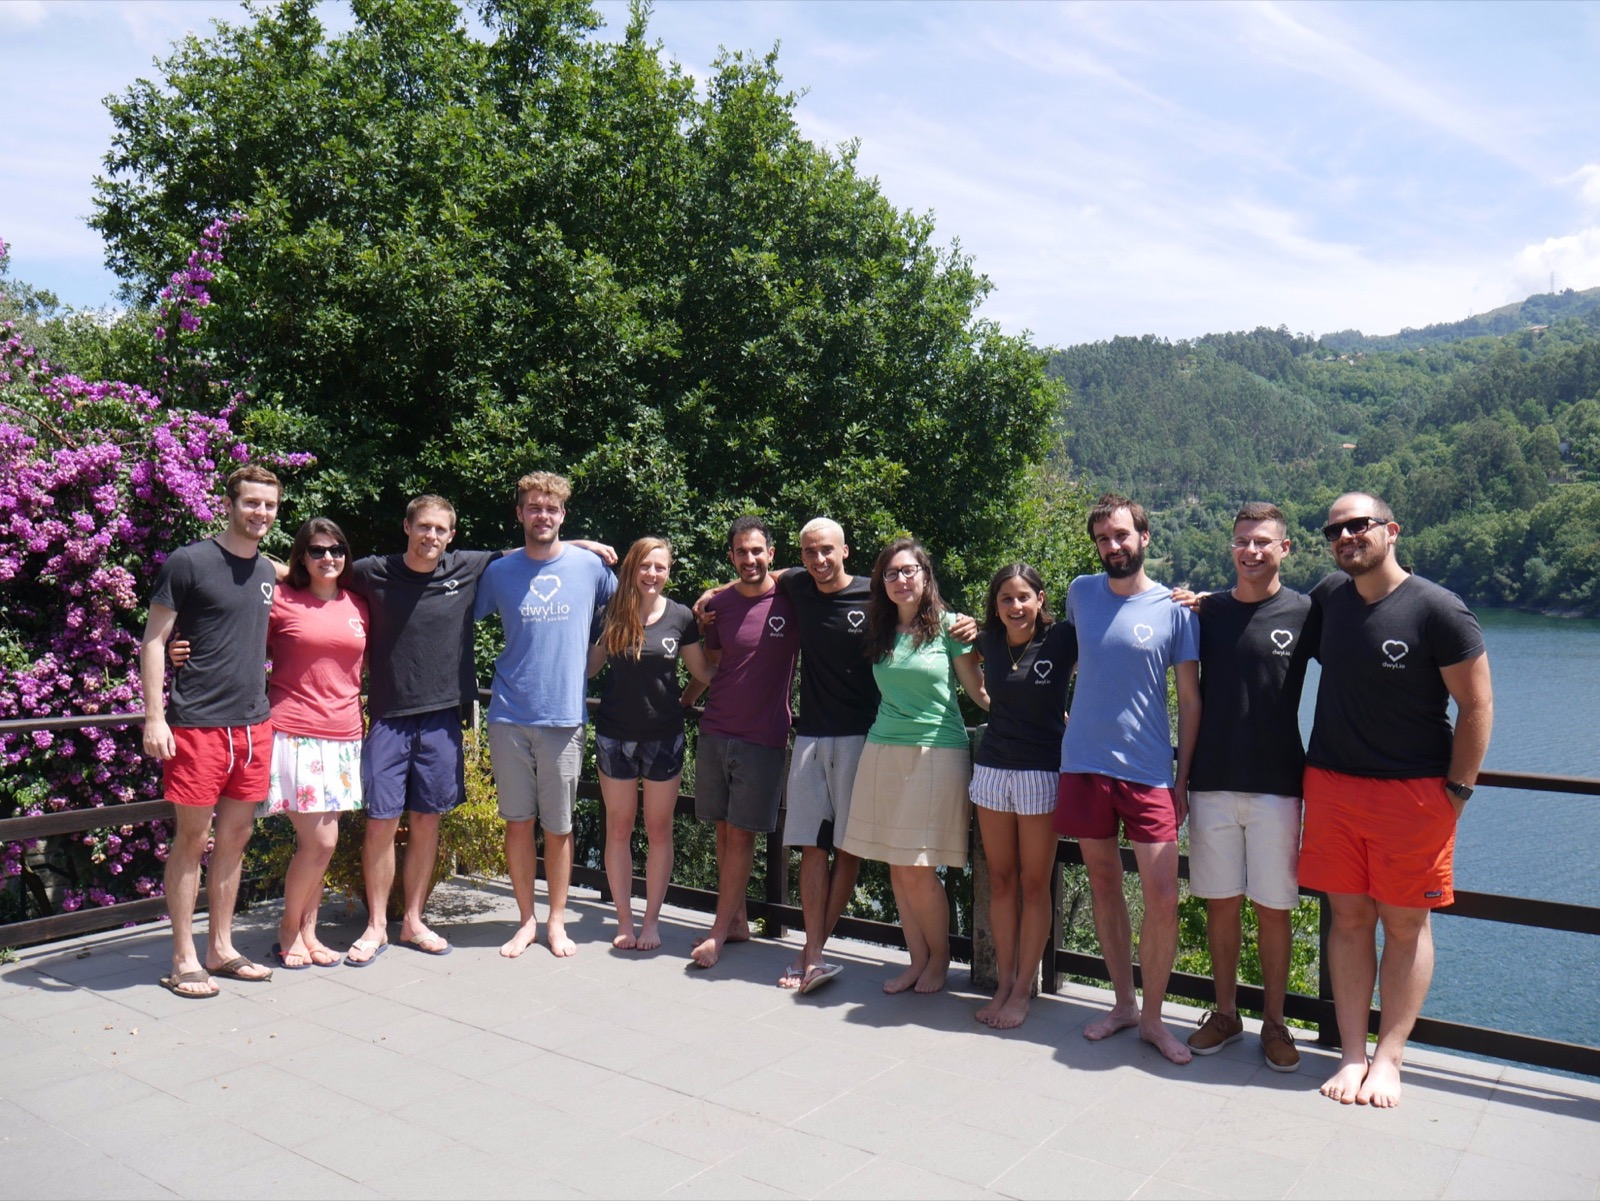
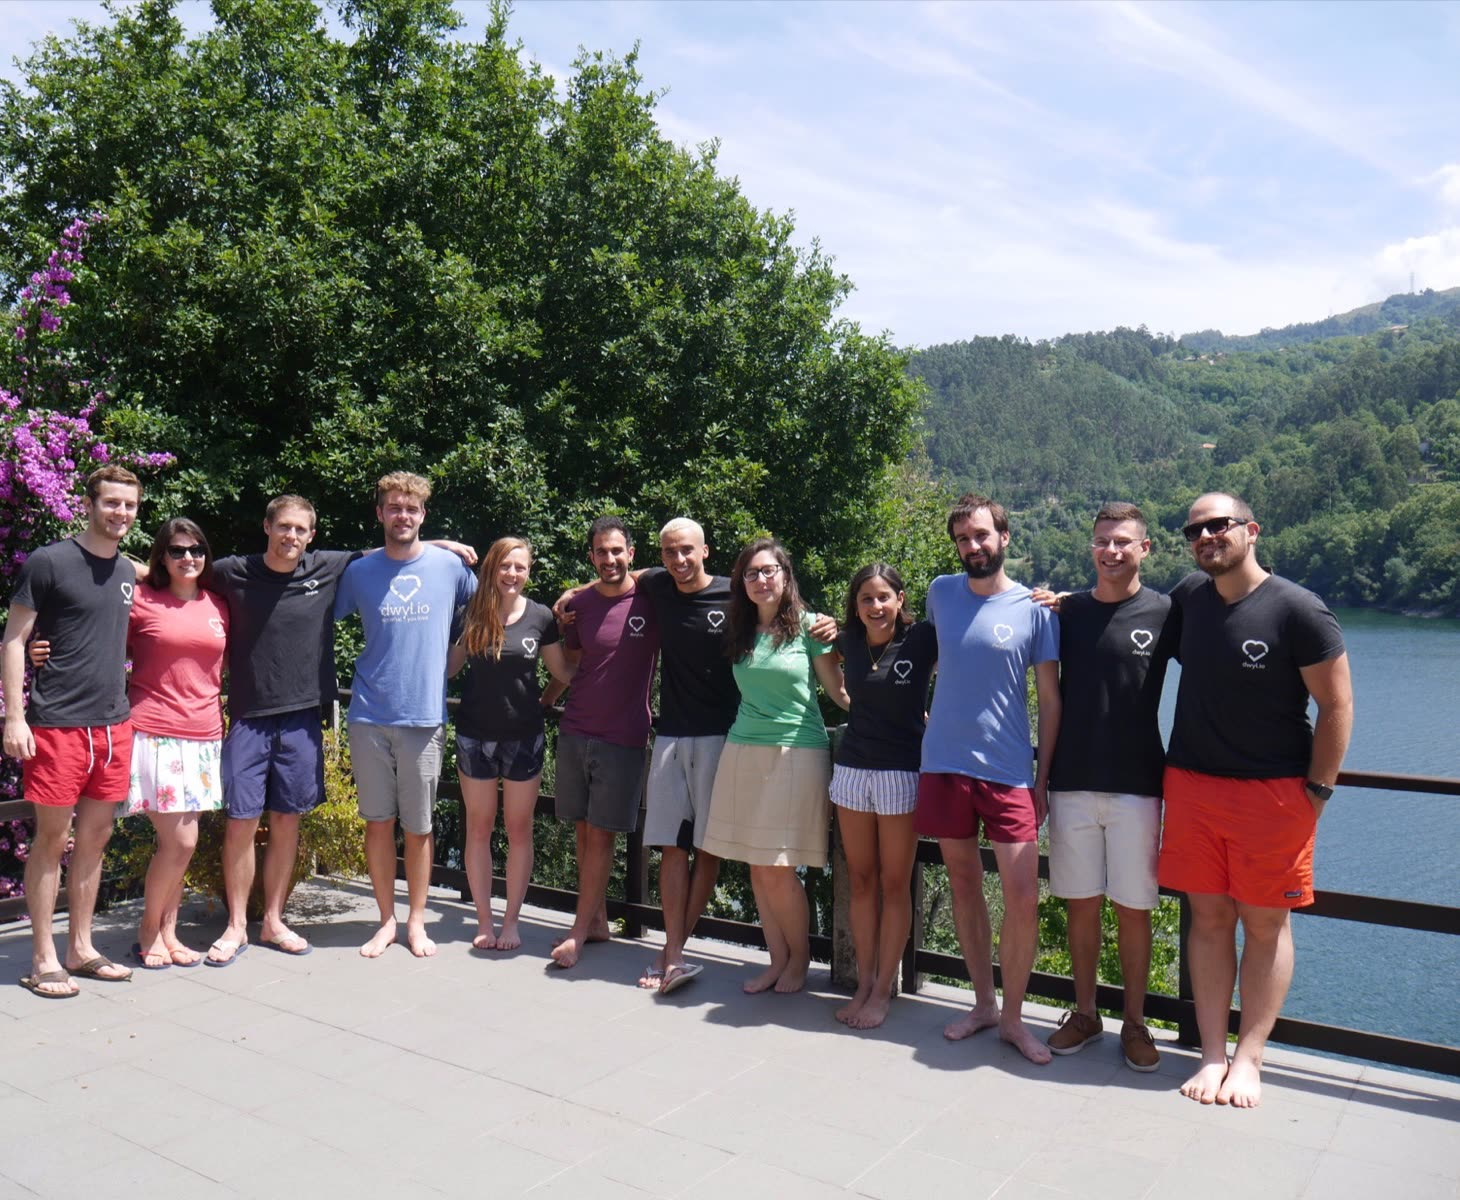
Timeline: DWYL team photo starts at Maxx's shoulder
The group photo sat centred in a narrow cell, which cut Maxx (far left)
out of frame. The file is trimmed 140px on the left so his shoulder is
the edge, and the cell anchors left, so he stays in at any width.

diff --git a/timeline/index.html b/timeline/index.html
@@ -400,7 +400,7 @@ const DATA = [
   {d:'Dec', y:'2017', cat:['life'], st:'Took up photography', sb:"Shot African wildlife and nature as a creative passion project.", t:'Started Learning about Photography and Digital Marketing', b:`<p>I wanted to spend more time learning and challenge myself with some artistic and creative projects. So I pursued a number of photography passion projects, taking pictures of African wildlife and nature.</p><div class="tl-carousel"><button class="tl-car-btn tl-car-prev" aria-label="Previous">‹</button><div class="tl-car-viewport"><div class="tl-car-track"><iframe src="https://www.instagram.com/p/Be1B8ppA0z_/embed" loading="lazy" frameborder="0" scrolling="no"></iframe><iframe src="https://www.instagram.com/p/Be3H-YrgrHg/embed" loading="lazy" frameborder="0" scrolling="no"></iframe><iframe src="https://www.instagram.com/p/BfKrUOQAzXw/embed" loading="lazy" frameborder="0" scrolling="no"></iframe><iframe src="https://www.instagram.com/p/BdnCDJ7gXrh/embed" loading="lazy" frameborder="0" scrolling="no"></iframe><iframe src="https://www.instagram.com/p/BdNpeqgALfN/embed" loading="lazy" frameborder="0" scrolling="no"></iframe><iframe src="https://www.instagram.com/p/Bds1bc3AVC4/embed" loading="lazy" frameborder="0" scrolling="no"></iframe><iframe src="https://www.instagram.com/p/BkxF4eQltuN/embed" loading="lazy" frameborder="0" scrolling="no"></iframe><iframe src="https://www.instagram.com/p/Bk991CzAkjo/embed" loading="lazy" frameborder="0" scrolling="no"></iframe></div></div><button class="tl-car-btn tl-car-next" aria-label="Next">›</button></div>`},
   {d:'Dec', y:'2017', cat:['life'], st:'Four months on the road', sb:"Four months across Southern Africa and Europe — and started this site.", t:'Went Travelling and Explored Learning Opportunities', b:`<p>After spending a year on <a href="https://dwyl.com/" target="_blank" rel="noopener">DWYL</a> I went travelling for 4 months (Cape Town, Johannesburg, the Okavango Delta, Amsterdam, St Anton am Arlberg, Devon) and started working on a number of personal projects, including this website. I applied for scholarships to the <a href="https://quantic.edu/" target="_blank" rel="noopener">Quantic MBA programme</a> and the <a href="https://www.udacity.com/course/mobile-web-specialist-nanodegree--nd024" target="_blank" rel="noopener">Udacity Mobile Web Specialist Nanodegree</a>.</p>`},
   {d:'Oct', y:'2017', cat:['learning'], st:'Won a Udacity scholarship', sb:"1 of 10,000 from 200,000+ for a mobile-web challenge course.", t:'Won Udacity Mobile Web Challenge Scholarship', b:`<p>I won a scholarship for a 3-month part-time mobile web specialist challenge course. I was selected as 1 of 10,000 recipients from an applicant pool of over 200,000 people.</p><div class="tl-figrow three"><figure class="tl-figure crest"><img src="/assets/img/tl-udacity-google-badge.png" alt="Udacity and Google Developer Challenge Scholarship recipient badge, 2017/2018" width="800" height="800" loading="lazy" decoding="async" /><figcaption>Google Developer Challenge Scholarship &middot; 2017/2018</figcaption></figure></div>`},
-  {d:'Jan', y:'2017', cat:['venture'], st:'Co-founder & COO at DWYL', sb:"Joined a 20-person tech-for-good web agency.", t:'Joined a Web Development Agency as Co-founder & Chief Operating Officer', b:`<p>At the start of 2017 I was offered a unique COO and (late-to-the-party) Co-founder role at <a href="https://dwyl.com/" target="_blank" rel="noopener">DWYL</a>, a 20-person-strong web development tech-for-good agency that built web app products, mainly for social enterprises and charities.</p><div class="tl-figrow three"><figure class="tl-figure pad"><img src="/assets/img/dwyl-logo.png" alt="DWYL logo" width="343" height="331" loading="lazy" decoding="async" /><figcaption>DWYL &middot; do what you love</figcaption></figure><figure class="tl-figure"><img src="/assets/img/tl-dwyl2.jpg" alt="Maxx in a DWYL t-shirt by a lake" width="2000" height="2000" loading="lazy" decoding="async" /><figcaption>Repping dwyl.io on a team retreat</figcaption></figure><figure class="tl-figure"><img src="/assets/img/tl-dwyl.jpg" alt="The DWYL team on a company retreat" width="2000" height="1501" loading="lazy" decoding="async" /><figcaption>The DWYL team retreat</figcaption></figure></div>`},
+  {d:'Jan', y:'2017', cat:['venture'], st:'Co-founder & COO at DWYL', sb:"Joined a 20-person tech-for-good web agency.", t:'Joined a Web Development Agency as Co-founder & Chief Operating Officer', b:`<p>At the start of 2017 I was offered a unique COO and (late-to-the-party) Co-founder role at <a href="https://dwyl.com/" target="_blank" rel="noopener">DWYL</a>, a 20-person-strong web development tech-for-good agency that built web app products, mainly for social enterprises and charities.</p><div class="tl-figrow three"><figure class="tl-figure pad"><img src="/assets/img/dwyl-logo.png" alt="DWYL logo" width="343" height="331" loading="lazy" decoding="async" /><figcaption>DWYL &middot; do what you love</figcaption></figure><figure class="tl-figure"><img src="/assets/img/tl-dwyl2.jpg" alt="Maxx in a DWYL t-shirt by a lake" width="2000" height="2000" loading="lazy" decoding="async" /><figcaption>Repping dwyl.io on a team retreat</figcaption></figure><figure class="tl-figure"><img src="/assets/img/tl-dwyl.jpg" alt="The DWYL team on a company retreat" style="object-position:0% center;" width="1460" height="1200" loading="lazy" decoding="async" /><figcaption>The DWYL team retreat</figcaption></figure></div>`},
   {d:'Jul', y:'2016', cat:['venture'], st:'Founding Partner at Hack Partners', sb:"Promoted with more equity and responsibility.", t:'Promoted to Founding Partner at Hack Partners', b:`<p>Within a few months of working at <a href="https://hackpartners.com/" target="_blank" rel="noopener">Hack Partners</a> I was promoted to Founding Partner status. The position came with increased equity and more responsibility within the business.</p><div class="tl-figrow three"><figure class="tl-figure pad"><img src="/assets/img/hack-partners-logo.png" alt="Hack Partners logo" width="363" height="360" loading="lazy" decoding="async" /><figcaption>Hack Partners</figcaption></figure><figure class="tl-figure"><img src="/assets/img/tl-hp-portrait.jpg" alt="Maxx at the Hack Partners office" style="object-position:78% center;" width="1920" height="1080" loading="lazy" decoding="async" /><figcaption>At the Hack Partners office</figcaption></figure><figure class="tl-figure"><img src="/assets/img/tl-hp-portrait2.jpg" alt="Maxx at the Hack Partners bar" style="object-position:80% center;" width="1920" height="1080" loading="lazy" decoding="async" /><figcaption>Hack Partners HQ</figcaption></figure></div>`},
   {d:'Apr', y:'2016', cat:['venture'], st:'Head of Ops at Hack Partners', sb:"Ran the HackTrain Hackathon, Conference and Accelerator.", t:'Joined Hack Partners as Head of Operations', b:`<p>I was offered a role at <a href="https://hackpartners.com/" target="_blank" rel="noopener">Hack Partners</a>, an innovation consultancy firm that specialises in disrupting heavily-regulated and technologically-underdeveloped industries. HP work mainly with the railway industry, operating under the well-known HackTrain brand. Amongst the daily business operations, I managed and organised the <a href="https://www.youtube.com/watch?v=f8AxokvfcX0" target="_blank" rel="noopener">HackTrain Hackathon</a>, as well as the annual <a href="https://www.youtube.com/watch?v=2M0XlZFudqY" target="_blank" rel="noopener">HackTrain Conference</a> and the <a href="https://www.youtube.com/watch?v=Uaklj9svaws" target="_blank" rel="noopener">HackTrain Accelerator</a>, the world's first programme of its kind specifically designed to meet the demands of the growing RailTech movement.</p><div class="tl-carousel"><button class="tl-car-btn tl-car-prev" aria-label="Previous">‹</button><div class="tl-car-viewport"><div class="tl-car-track"><figure class="tl-figure pad"><img src="/assets/img/hacktrain-logo.png" alt="HackTrain logo" width="500" height="500" loading="lazy" decoding="async" /><figcaption>HackTrain &middot; the rail brand</figcaption></figure><figure class="tl-figure"><img src="/assets/img/tl-hacktrain.jpg" alt="The HackTrain team" width="2000" height="1125" loading="lazy" decoding="async" /><figcaption>With the HackTrain crew</figcaption></figure><figure class="tl-figure"><img src="/assets/img/tl-hacktrain2.jpg" alt="At the HackTrain RailTech stand" width="1560" height="1080" loading="lazy" decoding="async" /><figcaption>At the #RailTech stand</figcaption></figure><figure class="tl-figure"><img src="/assets/img/tl-hacktrain3.jpg" alt="The HackTrain team with a golden ticket" width="2000" height="1125" loading="lazy" decoding="async" /><figcaption>The HackTrain team · golden ticket</figcaption></figure><figure class="tl-figure"><img src="/assets/img/tl-hp-travel.jpg" alt="Travelling with the HackTrain team" width="1080" height="869" loading="lazy" decoding="async" /><figcaption>On the road · Schiphol, Amsterdam</figcaption></figure></div></div><button class="tl-car-btn tl-car-next" aria-label="Next">›</button></div>`},
   {d:'Sep', y:'2015', cat:['venture'], st:'Ops Manager at Entrepreneurs First', sb:"Learned the early-stage craft at Europe's top deep-tech builder.", t:'Joined Entrepreneurs First as Operations Manager', b:`<p>After completing my Oxford degree, I decided to join Europe's top seed-stage venture capital firm and deep technology company builder, <a href="https://www.joinef.com/" target="_blank" rel="noopener">Entrepreneurs First</a>. EF helps the world's top technical talent start deep, defensible technology companies. In this role I learnt a significant amount about early-stage startups, investment and startup legals.</p><div class="tl-figrow onethird"><figure class="tl-figure plain"><img src="/assets/img/tl-ef-logo.png" alt="Entrepreneurs First logo" width="447" height="447" loading="lazy" decoding="async" /><figcaption>Entrepreneurs First</figcaption></figure><figure class="tl-figure"><img src="/assets/img/tl-ef.jpg" alt="The Entrepreneurs First team" width="1152" height="637" loading="lazy" decoding="async" /><figcaption>The EF team</figcaption></figure></div>`},
